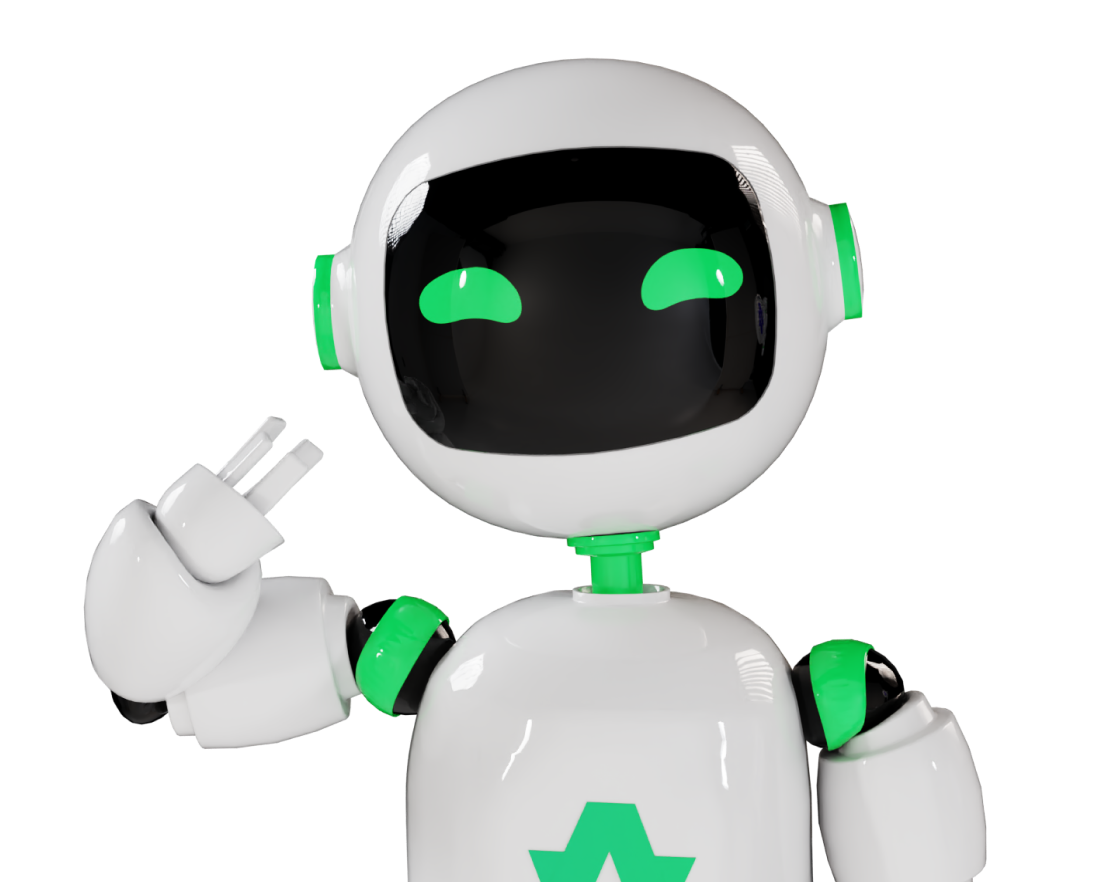
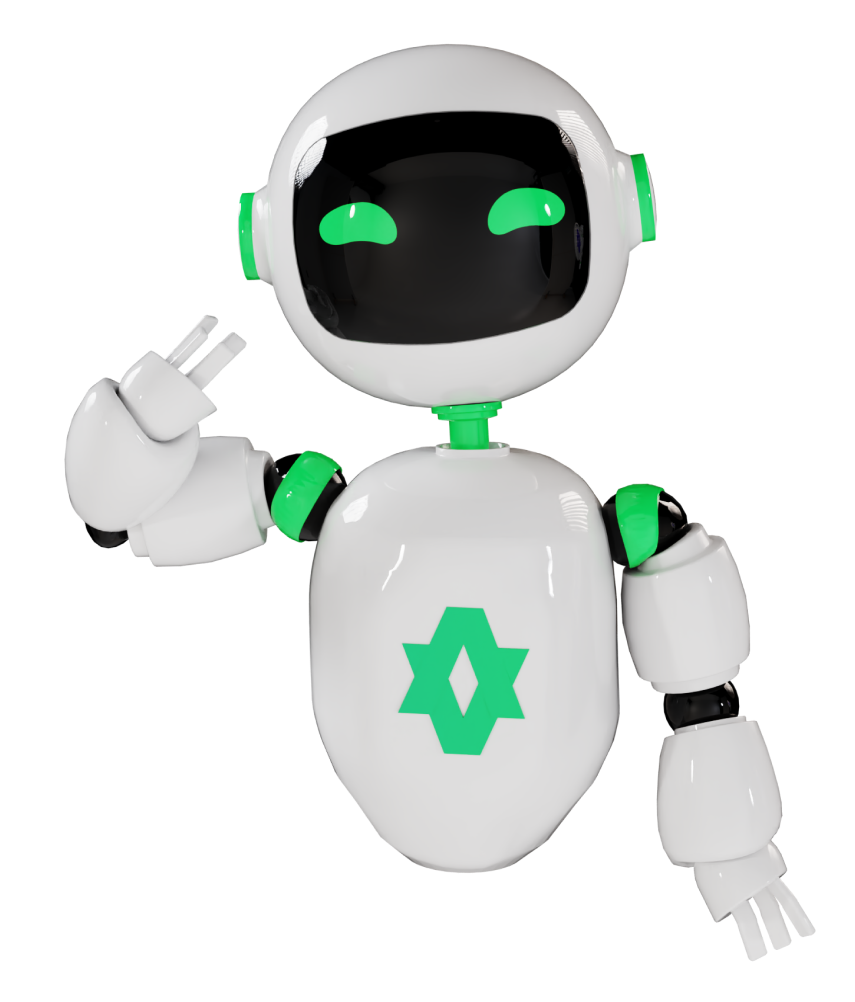
fix

diff --git a/src/components/Sections/RoadmapSection/RoadmapSection.tsx b/src/components/Sections/RoadmapSection/RoadmapSection.tsx
@@ -4,6 +4,7 @@ import styles from './RoadmapSection.module.scss';
 import { RoadmapBlock } from '@/components/RoadmapBlock/RoadmapBlock';
 import { RoadmapBlockMobile } from '@/components/RoadmapBlockMobile/RoadmapBlockMobile';
 import { motion, useInView } from 'framer-motion';
+import { useHorizontalScroll } from '@/hooks/useHorizontalScroll';
 
 const DATA = [
   {
@@ -112,18 +113,18 @@ const DATA = [
 ];
 
 export const RoadmapSection = () => {
-  const scrollRef = useRef<HTMLDivElement>(null);
+  const elRef = useHorizontalScroll()
 
-  const inView = useInView(scrollRef, {
+  const inView = useInView(elRef, {
     once: true,
   });
 
   useEffect(() => {
-    if (inView && scrollRef.current) {
+    if (inView && elRef.current) {
       setTimeout(() => {
-        if (scrollRef.current) {
-          scrollRef.current.scrollTo({
-            left: scrollRef.current.scrollWidth,
+        if (elRef.current) {
+          elRef.current.scrollTo({
+            left: elRef.current.scrollWidth,
             behavior: 'smooth',
           });
         }
@@ -137,7 +138,7 @@ export const RoadmapSection = () => {
         <h2 className={styles.title}>ROADMAP</h2>
         <span className={styles.caption}>&lt; 2024-2025 &gt;</span>
       </div>
-      <div className={styles.content} ref={scrollRef}>
+      <div className={styles.content} ref={elRef}>
         <div className={styles.wrapper}>
           {DATA.map((block) => {
             return (

diff --git a/src/hooks/useHorizontalScroll.ts b/src/hooks/useHorizontalScroll.ts
@@ -1,0 +1,25 @@
+import { useRef, useEffect } from 'react';
+
+export const useHorizontalScroll = () => {
+  const elRef = useRef<HTMLDivElement>(null);
+
+  useEffect(() => {
+    const el = elRef.current;
+
+    if (el) {
+      const onWheel = (e: any) => {
+        if (e.deltaY === 0) return;
+        e.preventDefault();
+        el.scrollTo({
+          left: el.scrollLeft + e.deltaY * 5, // Adjust the multiplier as needed
+          behavior: 'smooth',
+        });
+      };
+
+      el.addEventListener('wheel', onWheel);
+      return () => el.removeEventListener('wheel', onWheel);
+    }
+  }, []);
+
+  return elRef;
+};

diff --git a/src/components/Sections/GreetingsSection/GreetingsSection.tsx b/src/components/Sections/GreetingsSection/GreetingsSection.tsx
@@ -47,12 +47,13 @@ export const GreetingsSection = () => {
             transition={{ duration: 0.7 }}
           >
             <Image
-              src='/images/robot_section.png'
+              src='/images/robot.png'
               height={510}
               width={427}
               alt='robot'
               sizes='100vw'
               priority
+              quality={100}
               style={{
                 height: 'auto',
                 width: '100%',
